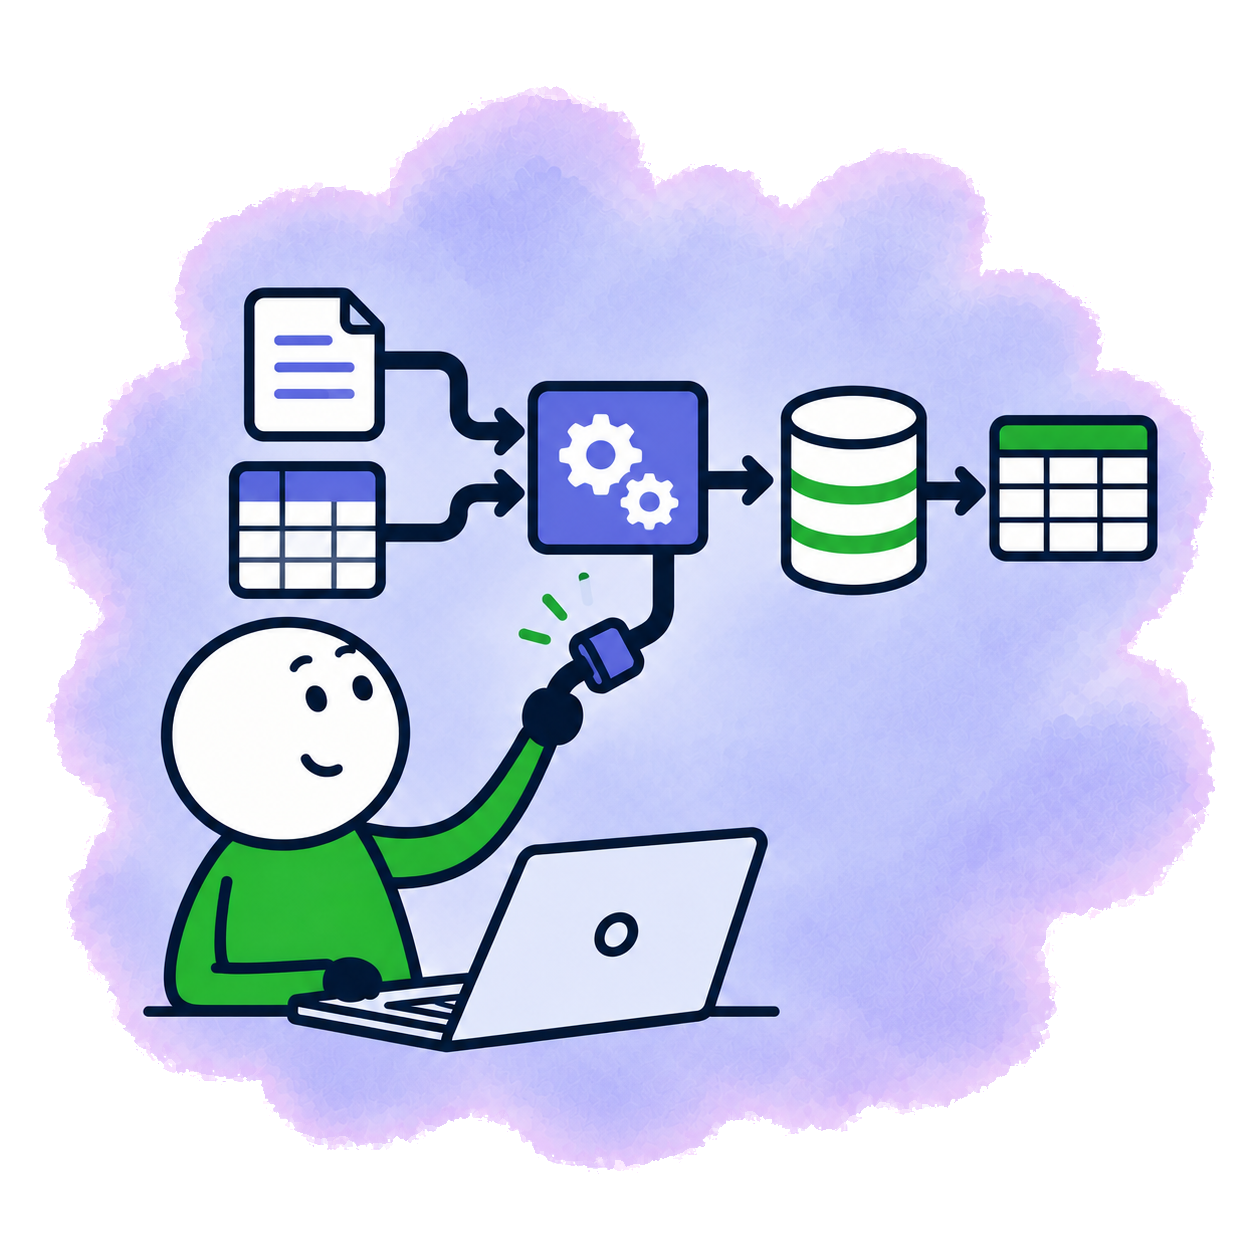
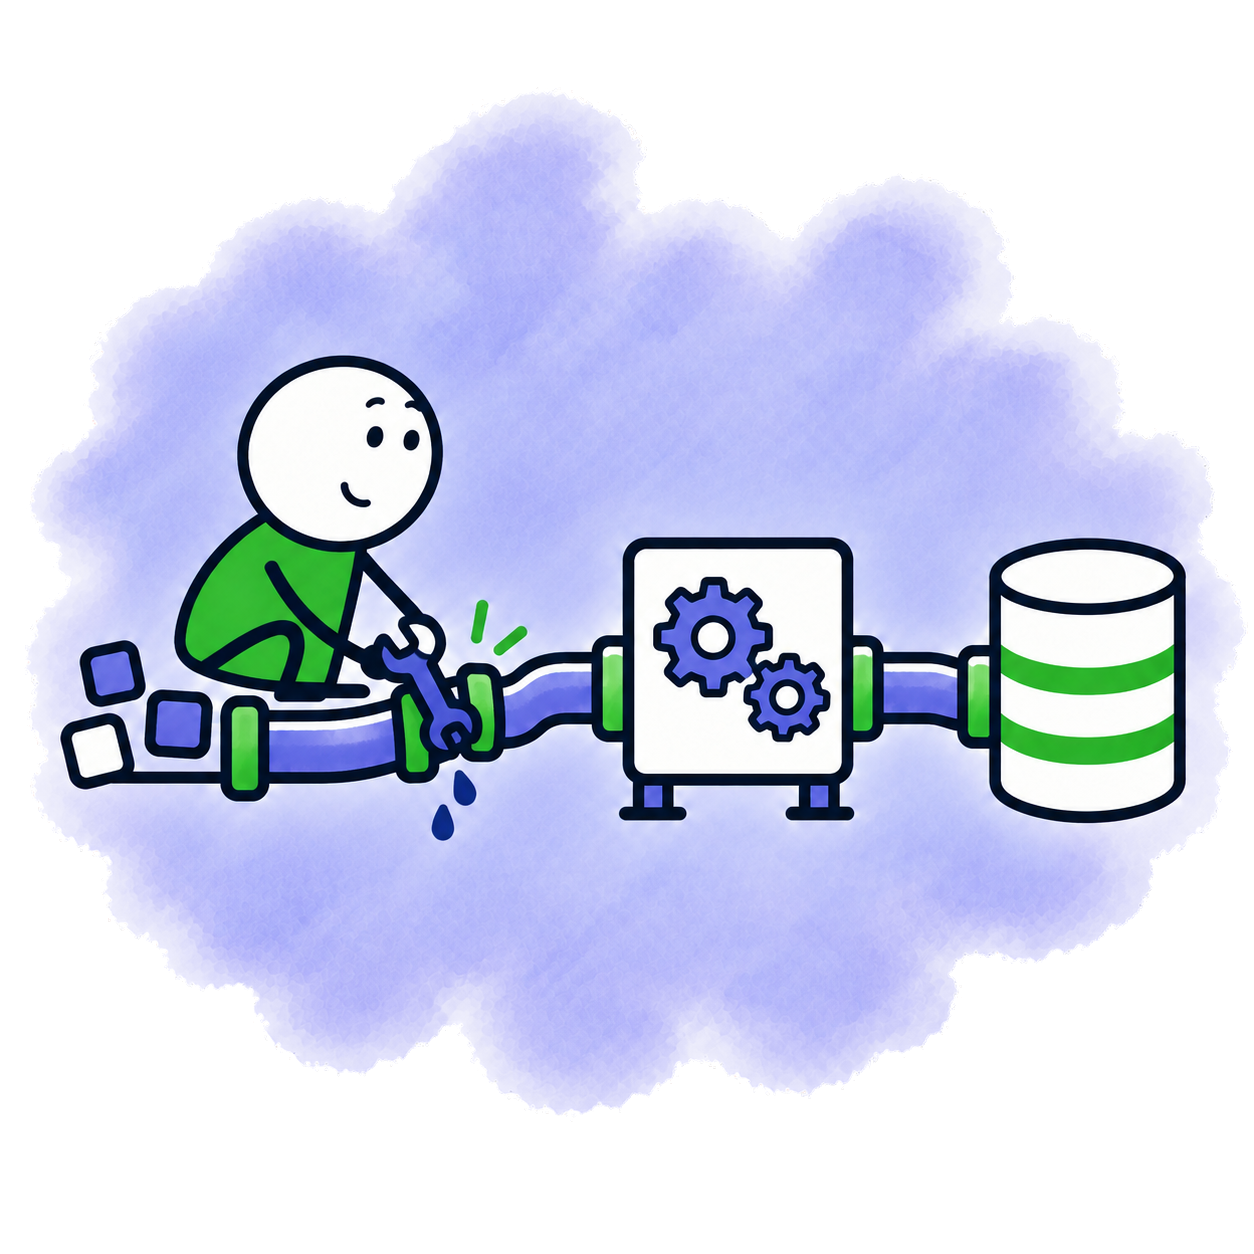
Vary the course illustration actions
Refs #401

diff --git a/_docs/design/references/course-variety-revision.md b/_docs/design/references/course-variety-revision.md
@@ -1,0 +1,109 @@
+# Course illustration variety revision
+
+Date: 2026-09-15. Built-in `image_gen.imagegen`; no API key or CLI. The tool
+exposed no model selector or reliable backend version, so the actual backend is
+unverified. The user replaced three repetitive presentation poses with distinct
+actions: repairing a data pipeline, retrieving sources for a grounded LLM answer,
+and counting money while reviewing market analysis.
+
+All raw tool outputs are native 1254 × 1254 RGB PNGs. The finishing helper
+removed only the connected magenta key and wrote native transparent PNG plus
+lossless WebP. No JPEG or other lossy intermediate was used. The installed WebPs
+decode exactly to their retained PNG counterparts, and all four canvas borders
+are transparent.
+
+## Data Engineering Zoomcamp
+
+- Raw output: `.tmp/course-illustration-variety-20260915/raw/de.png`
[1 lines of base64/hex data omitted]
+- Original tool output: `/home/alexey/.codex/generated_images/01a0a479-3d2f-7991-9ca7-bf120c70bac4/exec-e77d2ae6-db34-4145-94d4-065958106f18.png`
[2 lines of base64/hex data omitted]
+
+The first people-free factory draft was rejected as too diagram-like. The
+accepted revision uses a learner crouching over a leaking joint with both hands
+on a wrench; it is a repair pose, not another pointing/presentation pose.
+
+```text
+Use case: stylized-concept
+Asset type: square light-theme course illustration for Data Engineering Zoomcamp.
+Input images: Image 1 is the approved DataTalks.Club watercolor drawing style. Image 2 is the new pipeline composition anchor. Preserve its clear left-to-right data-pipeline idea and palette, but simplify the machine and make the story about actively repairing the pipeline.
+Primary request: Show one friendly learner crouching beside the lower-left pipe joint, tightening the joint with a clearly recognizable small navy wrench held in both hands. A tiny gap or leak at that joint is being fixed; two or three small indigo data blocks wait just before the repair. After the repaired joint, the connected pipe runs through one compact transformation box and into a neat cylindrical data warehouse on the right. The story must read instantly as fixing a data pipeline.
+Style/medium: simple hand-drawn editorial watercolor matching Image 1; confident irregular navy outlines, opaque warm-white fills, forest-green clothing and pipe collars, indigo pipe/data accents, broad calm pale-lavender wash. Clean solid foreground fills with restrained organic watercolor only.
+Composition/framing: compact centered square silhouette. Person is kneeling/crouching and looking at the pipe joint, not presenting. Hands stay on the wrench; no raised hand, no pointing finger. Keep the pipeline components large and uncluttered.
+Scene/backdrop: soft irregular pale-lavender watercolor wash behind the complete scene. Outside it, one perfectly uniform saturated magenta #ff00ff chroma backdrop.
+Constraints: exactly one person, two arms, two hands visibly connected, one wrench, one repair joint, one transformation box, one warehouse. All pipes connect plausibly except the small joint being repaired. No laptop, screen, presentation board, speech bubble, text, letters, numbers, logos, cursor, floating arrows, checkmark, robot, or extra limbs. No compression blocks, ringing, grain, speckles, cellular facets, polygon texture, malformed hands, detached wrench, hard cutout, white halo, or key-colored details inside the art.
+```
+
+Finishing command:
+
+```sh
+uv run --script .agents/skills/website-illustrations/scripts/finish_chroma.py \
+  .tmp/course-illustration-variety-20260915/raw/de.png \
+  .tmp/course-illustration-variety-20260915/final4/de \
+  --solid-key-chroma 230 --key-noise-alpha 0.05
+```
+
+## LLM Zoomcamp
+
+- Raw output: `.tmp/course-illustration-variety-20260915/raw/llm.png`
[1 lines of base64/hex data omitted]
+- Original tool output: `/home/alexey/.codex/generated_images/01a0a479-3d2f-7991-9ca7-bf120c70bac4/exec-d3cfb1ca-9376-4b7f-a623-c5b72edb7141.png`
[2 lines of base64/hex data omitted]
+
+```text
+Use case: stylized-concept
+Asset type: square light-theme course illustration for LLM Zoomcamp.
+Input images: Image 1 is the approved DataTalks.Club drawing style. Image 2 is the accepted current LLM composition and character reference. Keep its friendly learner-plus-robot feeling and palette, but make the retrieval-augmented-generation connection far clearer and remove the ambiguous loose-document handoff.
+Primary request: Show a clear left-to-right RAG chain with no labels. On the left, one learner types a question on a laptop with both hands on the keyboard. In the center, a compact stack of three documents sits inside a large simple magnifying-glass/search frame; one document is visibly selected with a green outline. A thick continuous indigo connector flows from the laptop question into the document search, then from the selected document into the friendly robot on the right. The robot composes one clean answer card, and two tiny document-source badges are visibly attached beneath the answer card to suggest grounded citations. The question -> retrieve documents -> grounded answer sequence must be unmistakable without words.
+Style/medium: friendly hand-drawn editorial watercolor matching Image 1 and Image 2; confident irregular navy outlines, opaque warm-white fills, forest green and indigo accents, broad calm pale-lavender wash. Clean flat foreground color with restrained organic watercolor only.
+Composition/framing: balanced compact square silhouette. Learner remains seated with hands on keyboard, not pointing. Robot uses both hands on the answer card, not pointing. Search/document node is central and visually connects both sides.
+Scene/backdrop: soft irregular pale-lavender watercolor wash behind the complete scene. Outside it, one perfectly uniform saturated magenta #ff00ff chroma backdrop.
+Constraints: exactly one learner and one robot; exactly two learner arms/hands and two robot arms/hands, visibly connected; one laptop; three source documents; one magnifying glass; one answer card; two small source badges. No extra limbs, no raised pointing fingers, no presentation board, no loose arrows that do not connect nodes, no database cylinder, no text, letters, numbers, logos, watermark, checkmarks, speech text, or cursor. Keep robot anatomy coherent. Avoid compression blocks, ringing, grain, speckles, cellular facets, polygon texture, malformed hands, detached parts, hard cutout, white halo, or key-colored details inside the artwork.
+```
+
+Finishing command:
+
+```sh
+uv run --script .agents/skills/website-illustrations/scripts/finish_chroma.py \
+  .tmp/course-illustration-variety-20260915/raw/llm.png \
+  .tmp/course-illustration-variety-20260915/final5/llm \
+  --solid-key-chroma 210 --key-noise-alpha 0.05
+```
+
+## Stock Market Analytics Zoomcamp
+
+- Raw output: `.tmp/course-illustration-variety-20260915/raw/sma.png`
[1 lines of base64/hex data omitted]
+- Original tool output: `/home/alexey/.codex/generated_images/01a0a479-3d2f-7991-9ca7-bf120c70bac4/exec-f9e5c15e-b9fc-4d72-8cc7-e8205ada1879.png`
[2 lines of base64/hex data omitted]
+
+```text
+Use case: stylized-concept
+Asset type: square light-theme course illustration for Stock Market Analytics Zoomcamp.
+Input images: Image 1 is the approved DataTalks.Club watercolor drawing style. Image 2 is the current Stock Market Analytics palette/character reference. Replace its pointing-at-a-chart composition completely.
+Primary request: Show one friendly learner seated at a simple table, carefully counting and sorting paper money with both hands. One hand holds a small fan of three plain banknotes; the other places one banknote onto one of two tidy stacks. A simple calculator and a small notebook with a tiny unlabeled green-and-indigo line chart sit on the table, making this about analysis and accounting rather than celebration. The action must read instantly as counting money.
+Style/medium: friendly hand-drawn editorial watercolor matching Image 1; confident slightly irregular navy outlines, opaque warm-white fills, forest-green shirt, indigo and green banknote accents, broad calm pale-lavender wash. Clean flat foreground fills with restrained organic watercolor only.
+Composition/framing: compact centered square silhouette. The learner looks down at the money and uses both hands; no pointing, no raised presenting hand, no large screen or presentation board. Tabletop and money are large enough to remain legible in a small card.
+Scene/backdrop: soft irregular pale-lavender watercolor wash behind the complete scene. Outside it, one perfectly uniform saturated magenta #ff00ff chroma backdrop.
+Constraints: exactly one person, two arms, two hands visibly connected, six or fewer banknotes total, two money stacks, one calculator, one notebook. Banknotes are generic rectangles with simple green marks only—no currency symbols, flags, portraits, readable text, numbers, logos or real-world currency design. No coins flying, cash rain, trophy, profit arrow, celebratory pose, laptop, presentation screen, pointing finger, robot, watermark or extra limbs. Avoid compression blocks, ringing, grain, speckles, cellular facets, polygon texture, malformed fingers, fused bills, hard cutout, white halo, or key-colored details inside the artwork.
+```
+
+Finishing command:
+
+```sh
+uv run --script .agents/skills/website-illustrations/scripts/finish_chroma.py \
+  .tmp/course-illustration-variety-20260915/raw/sma.png \
+  .tmp/course-illustration-variety-20260915/final4/sma \
+  --solid-key-chroma 230 --key-noise-alpha 0.05
+```
+
+Pixel verification uses:
+
+```sh
+uv run --script .agents/skills/website-illustrations/scripts/verify_assets.py \
+  .tmp/course-illustrations-20260915/png core/static/core/illustrations \
+  --prefix course-
+```
